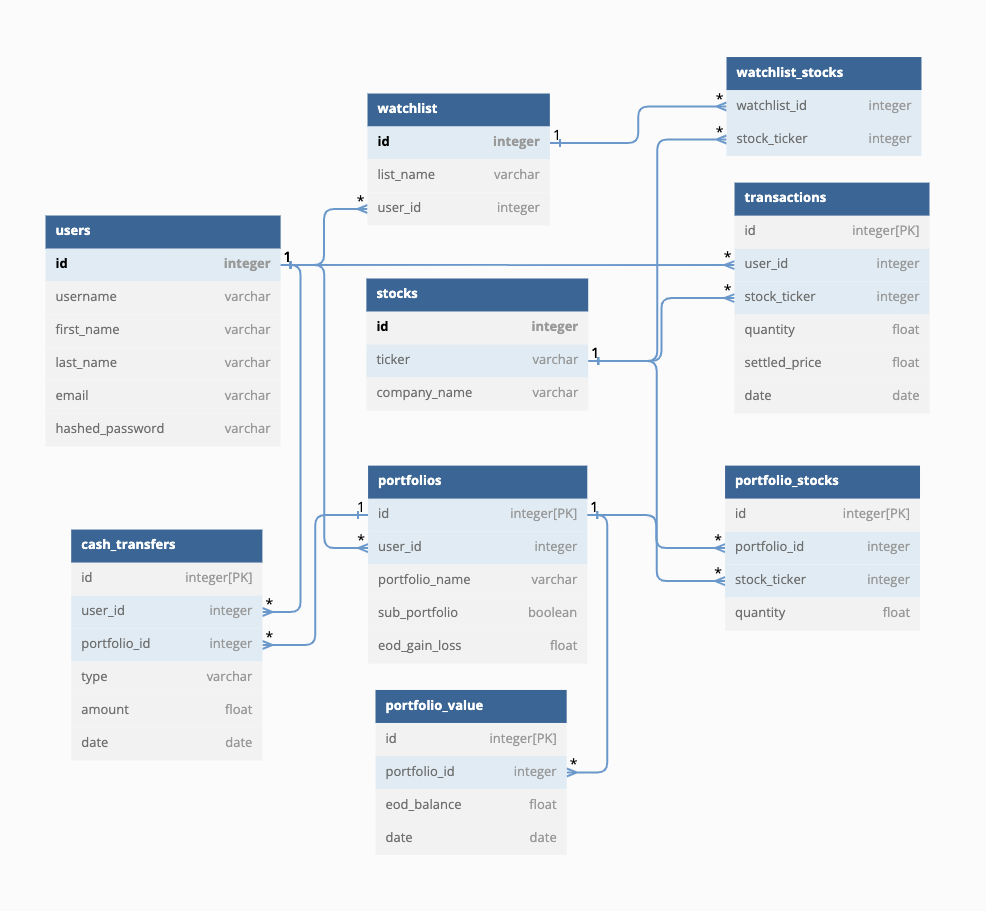
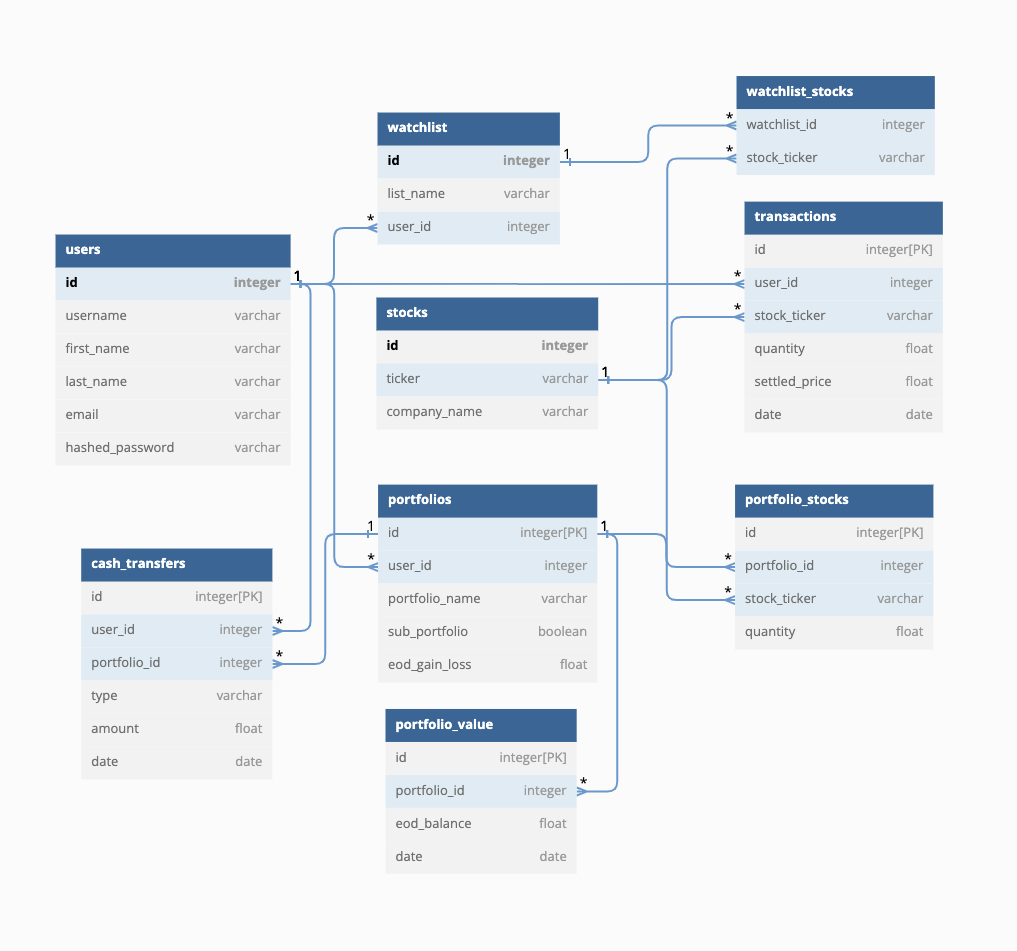
stock seed data done and corrected stock_ticker from integer to varchar on db schema

diff --git a/app/seeds/portfolios.py b/app/seeds/portfolios.py
@@ -1,0 +1,25 @@
+from app.models import db, Portfolio, environment, SCHEMA
+from sqlalchemy.sql import text
+
+# seed watchlists data
+
+def seed_portfolios():
+    Demo
+
+    db.session.add_all([])
+    db.session.commit()
+
+
+# Uses a raw SQL query to TRUNCATE or DELETE the users table. SQLAlchemy doesn't
+# have a built in function to do this. With postgres in production TRUNCATE
+# removes all the data from the table, and RESET IDENTITY resets the auto
+# incrementing primary key, CASCADE deletes any dependent entities.  With
+# sqlite3 in development you need to instead use DELETE to remove all data and
+# it will reset the primary keys for you as well.
+def undo_portfolios():
+    if environment == "production":
+        db.session.execute(f"TRUNCATE table {SCHEMA}.portfolios RESTART IDENTITY CASCADE;")
+    else:
+        db.session.execute(text("DELETE FROM portfolios"))
+
+    db.session.commit()

diff --git a/app/seeds/__init__.py b/app/seeds/__init__.py
@@ -1,6 +1,7 @@
 from flask.cli import AppGroup
 from .users import seed_users, undo_users
 from .watchlists import seed_watchlists, undo_watchlists
+from .stocks import seed_stocks,undo_stocks
 
 from app.models.db import db, environment, SCHEMA
 
@@ -17,16 +18,19 @@ def seed():
         # command, which will  truncate all tables prefixed with
         # the schema name (see comment in users.py undo_users function).
         # Make sure to add all your other model's undo functions below
+        undo_stocks()
         undo_watchlists()
         undo_users()
     seed_users()
     seed_watchlists()
+    seed_stocks()
     # Add other seed functions here
 
 
 # Creates the `flask seed undo` command
 @seed_commands.command('undo')
 def undo():
+    undo_stocks()
     undo_watchlists()
     undo_users()
     # Add other undo functions here
